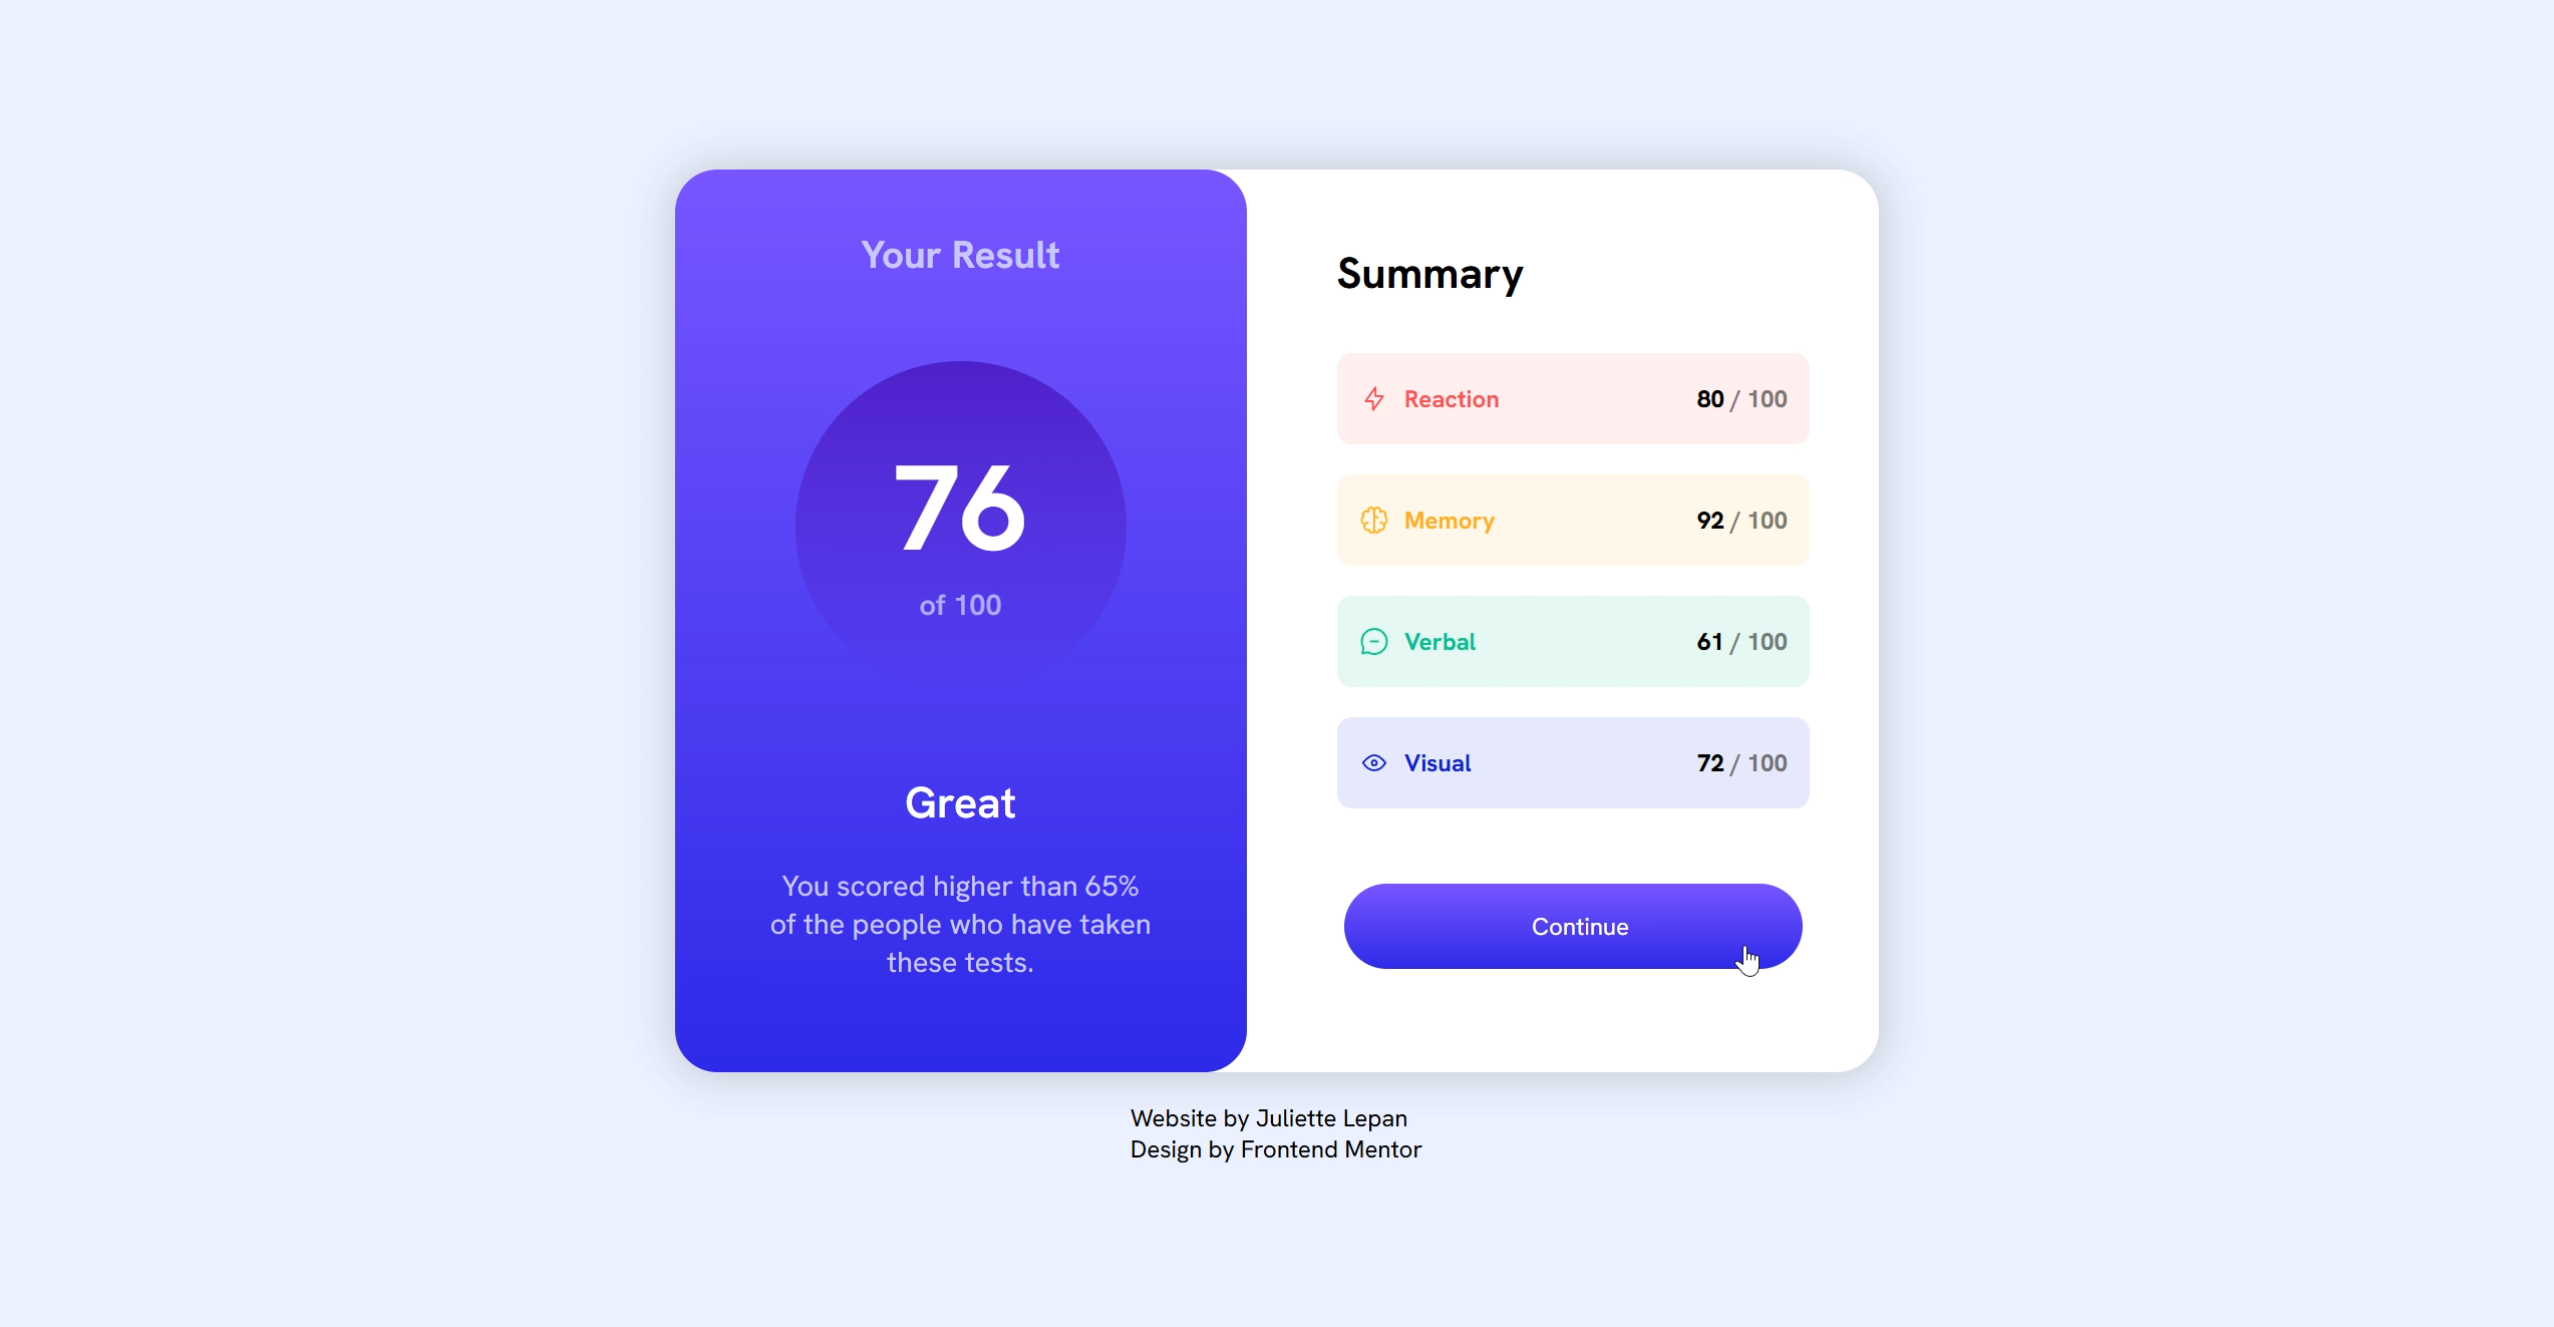
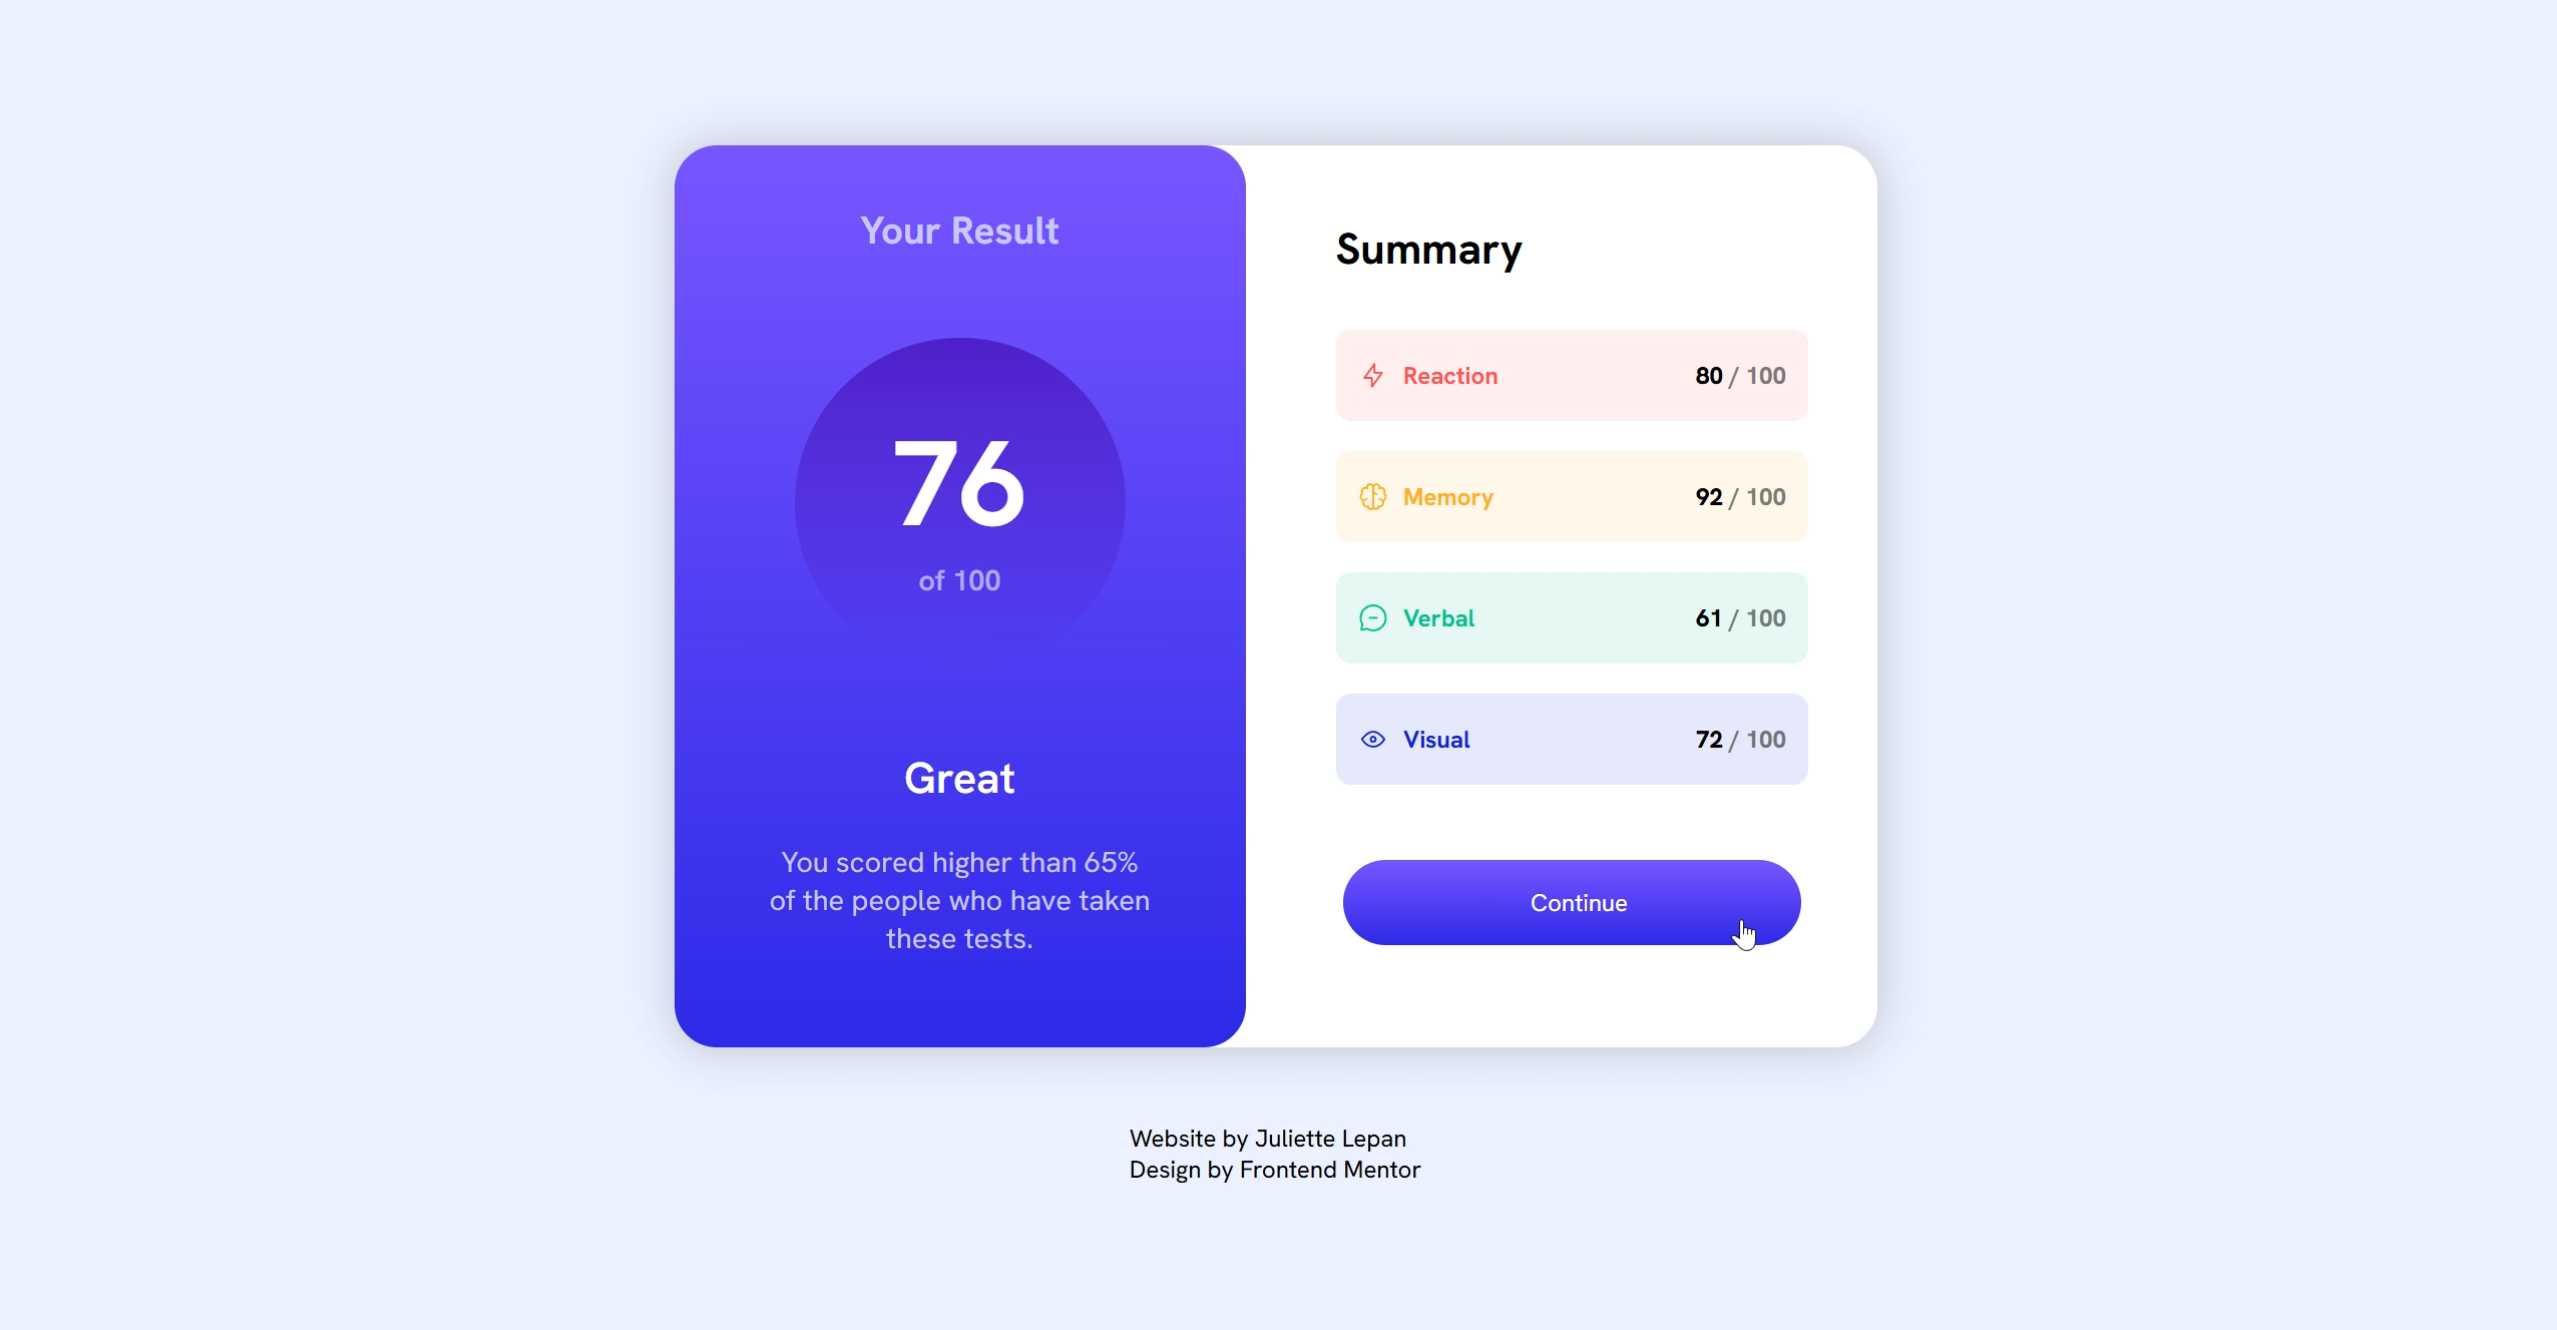
Mise à jour du CSS

diff --git a/style.css b/style.css
@@ -18,6 +18,7 @@
 }
 
 body {
+    position: relative;
     background-color: hsl(221, 100%, 96%);
     min-height: 100vh;
     display: flex;
@@ -155,7 +156,7 @@ button:hover {
 }
 
 footer {
-    margin-top: 20px;
+    margin-top: 50px;
 }
 
 footer p {
@@ -197,11 +198,6 @@ footer a:hover {
     article {
         padding-bottom: 30px;
     }
-    /*footer {
-        position: absolute;
-        top: unset;
-        bottom: 5px
-    }*/
 }
 
 @media only screen and (min-width: 1024px) {
@@ -242,9 +238,6 @@ footer a:hover {
     }
     button {
         margin-top: 50px
-    }
-    footer {
-        bottom: 60px;
     }
     footer p {
         font-size: 1em;

diff --git a/README.md b/README.md
@@ -1,4 +1,4 @@
-# **blog-preview-card**
+# **Results Summary Component**
 
 Ce projet est un exercice réalisé dans le cadre des défis de [Frontend Mentor](https://www.frontendmentor.io/). 
 Il consiste à créer un résumé de résultats en suivant la maquette donnée.
